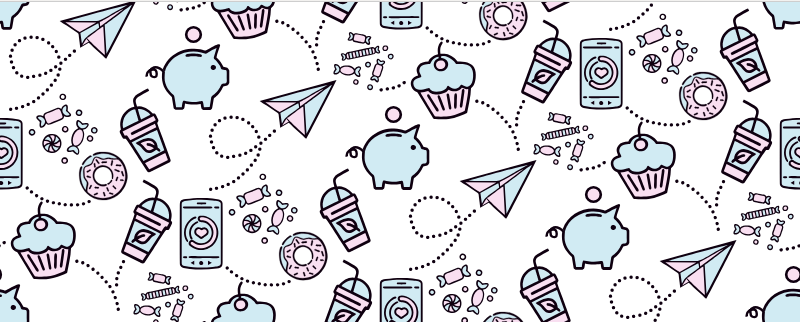
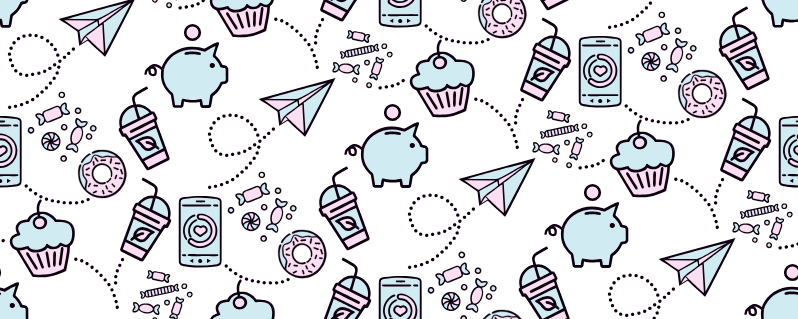
add ne login page

diff --git a/web/css/site.css b/web/css/site.css
@@ -172,7 +172,6 @@ a.desc:after {
 }
 
 .vk-back {
-    background: url('../back-fastfood.svg');
+    background: url('../back_vk3.png');
     background-repeat: repeat;
-    background-size: 100%; /* Современные браузеры */
 }
